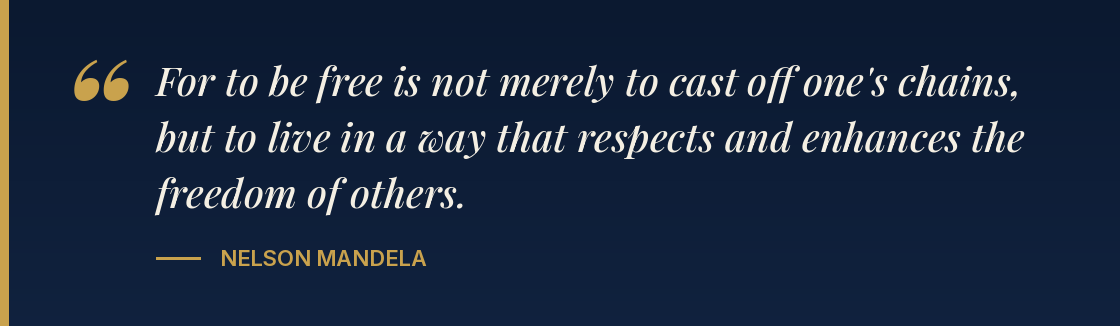
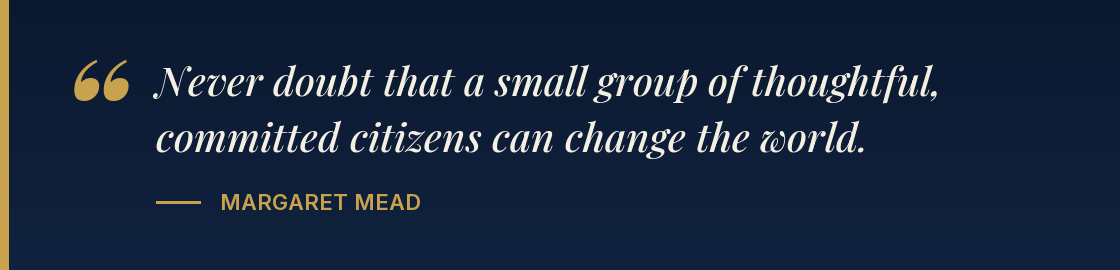
Spread quotes so authors do not cluster

Changed region(s): [[0.0625, 0.1778, 0.9375, 0.6519], [0.125, 0.7111, 0.375, 0.8296]]

diff --git a/generate_quote.py b/generate_quote.py
@@ -45,7 +45,9 @@ def wrap(draw, text, fnt, max_w):
 
 def pick(quotes, today=None):
     day = today or datetime.now(ZoneInfo("Africa/Windhoek")).date()
-    return quotes[day.toordinal() % len(quotes)], day
+    n = len(quotes)
+    stride = next(s for s in range(n // 3, n) if __import__("math").gcd(s, n) == 1)
+    return quotes[(day.toordinal() * stride) % n], day
 
 
 def render(quote, out):
